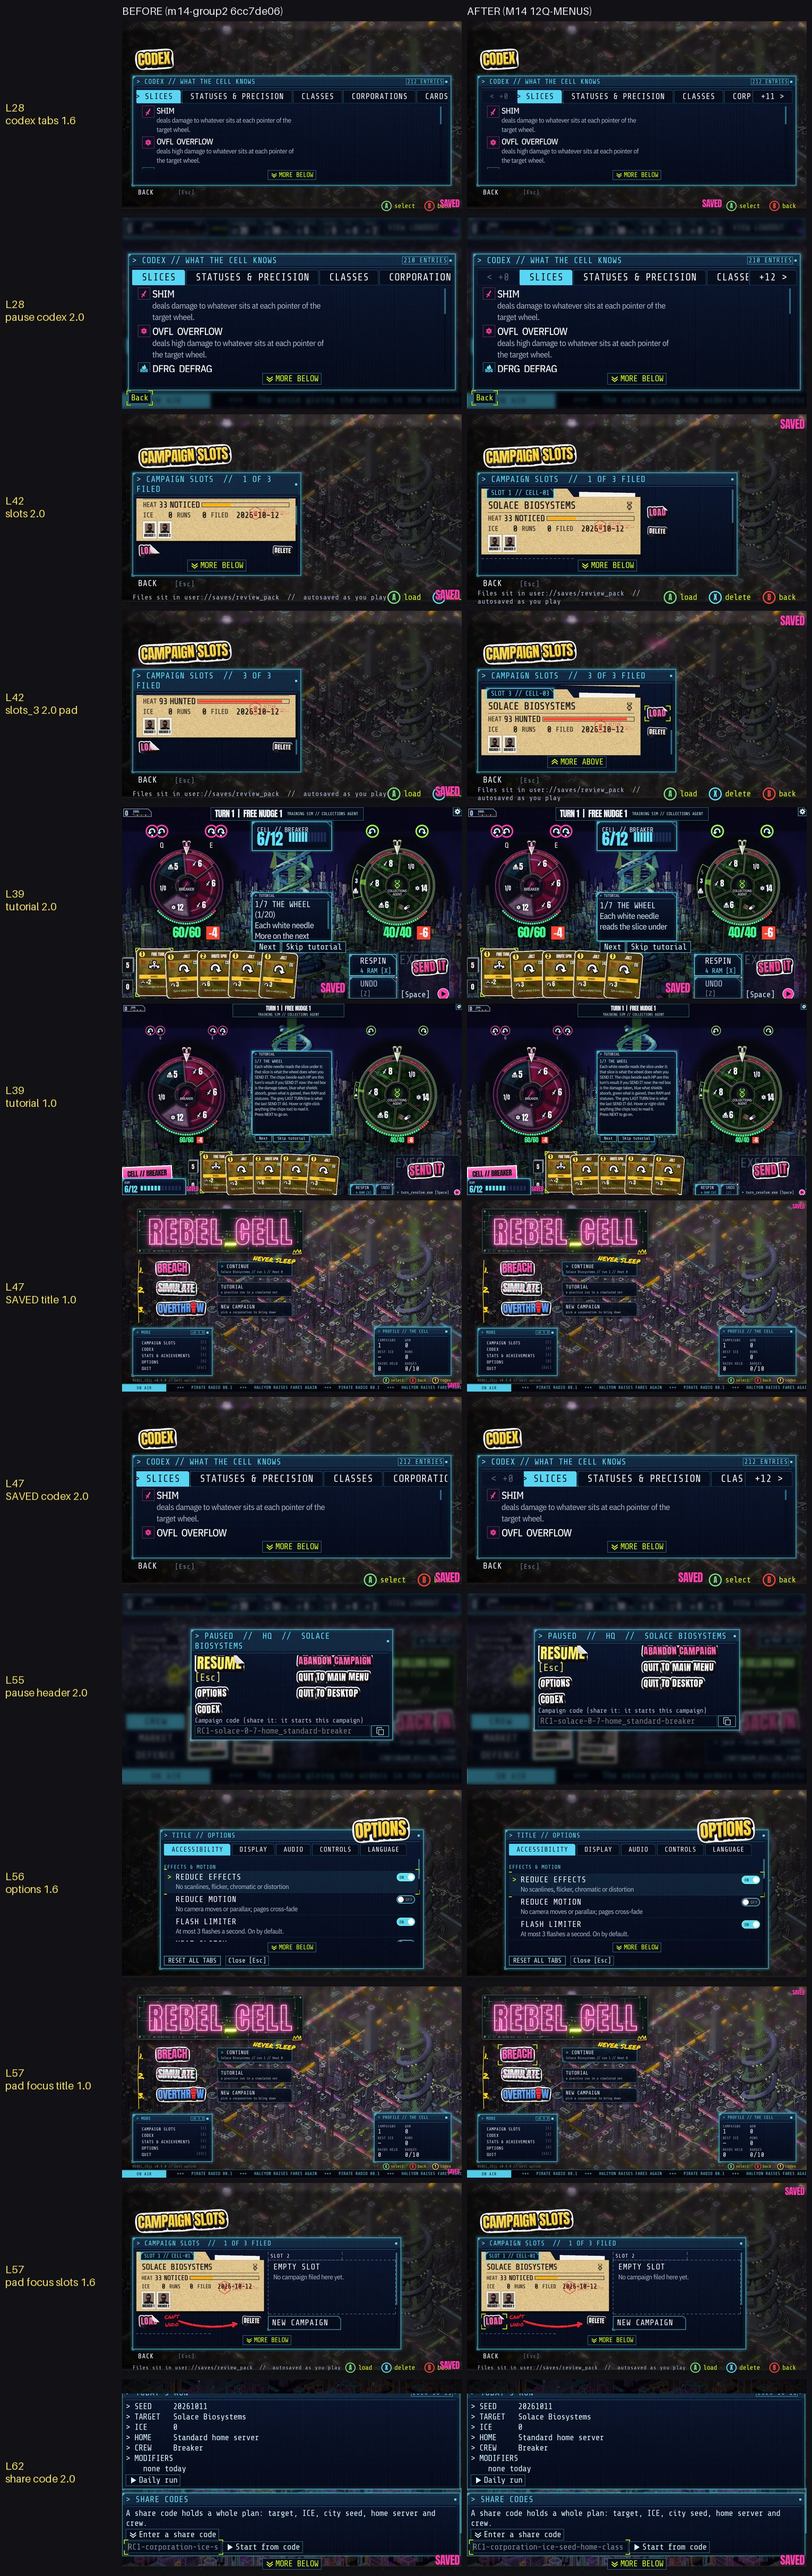
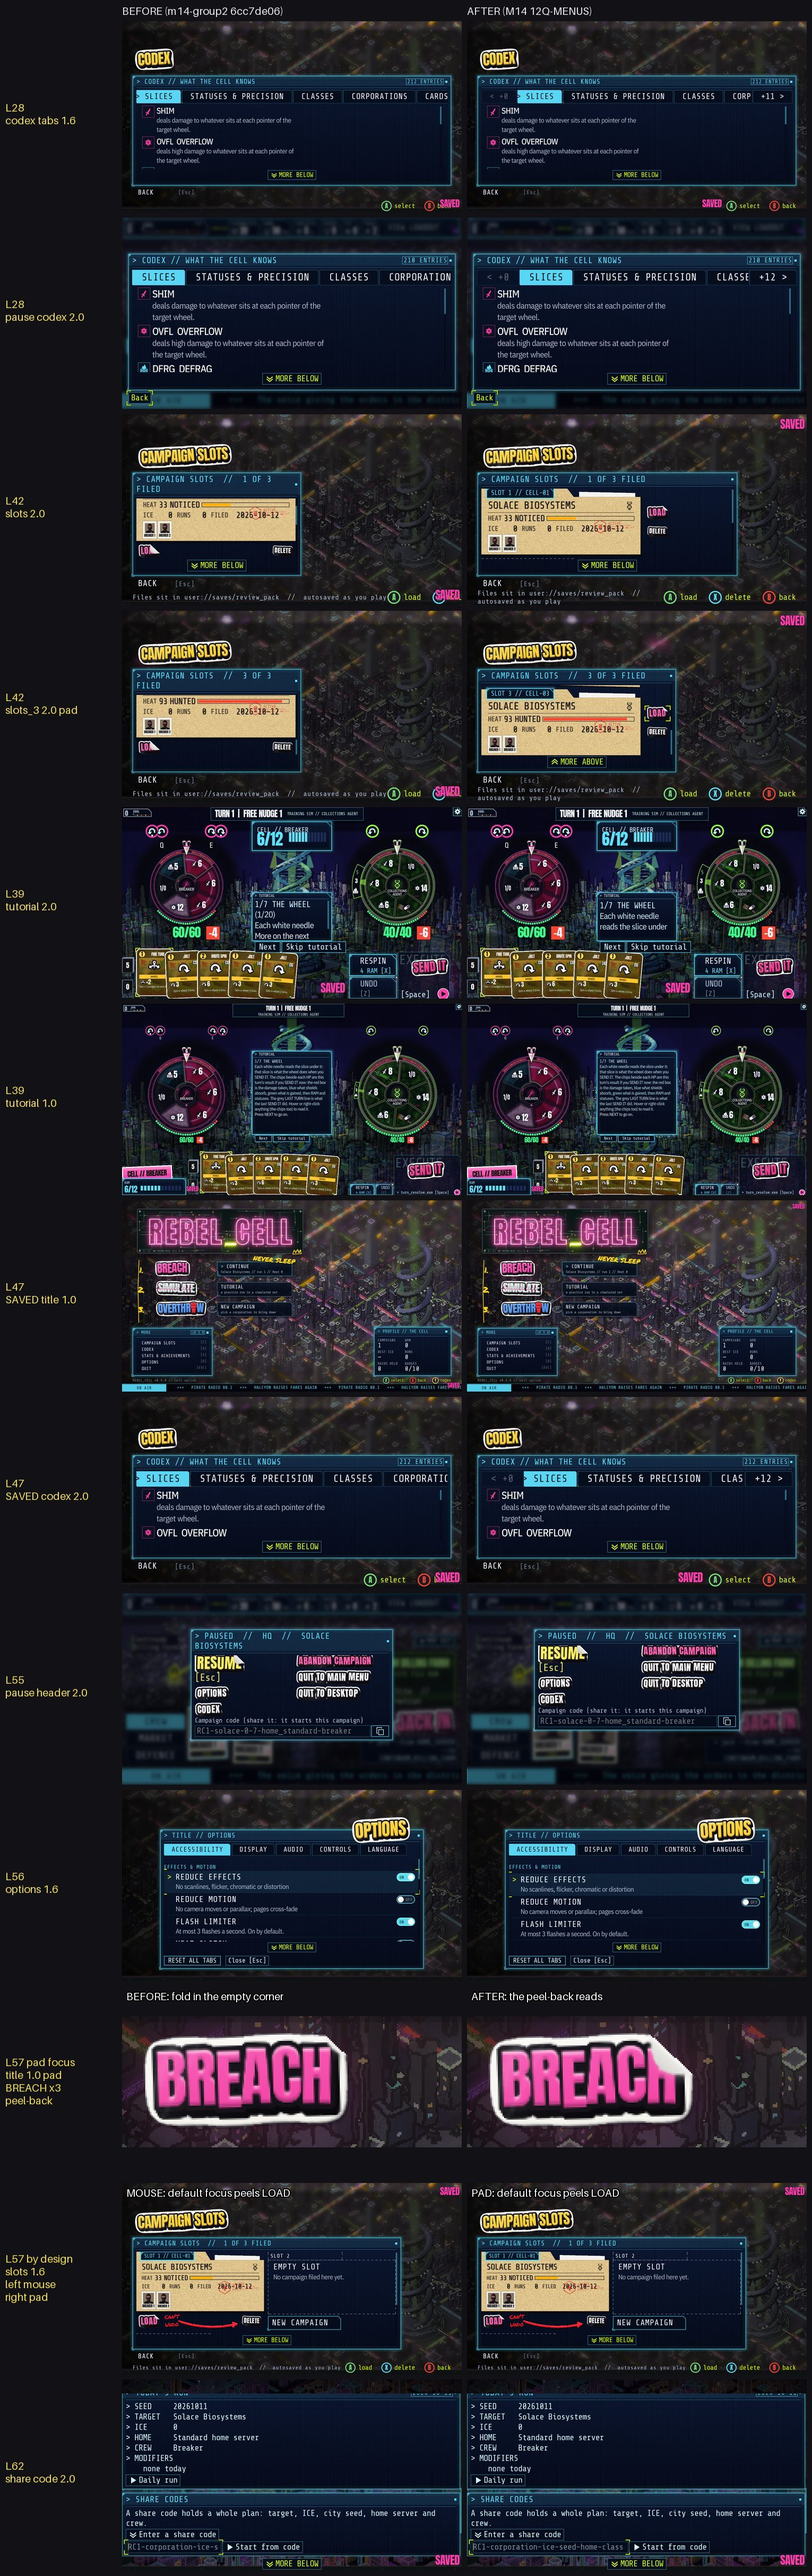
M14 12Q-MENUS screens: L57 per designer ruling 2026-10-06 (3): no sticker focus brackets; the peel-back reads on concept-art stickers (fold from the die-cut's corner)
Removes the pad-only VerbSticker brackets and Settings.pointer_active / device_focus. Pad focus already takes the hover peel; on baked art the fold sat in the empty corner of the opaque rect, now it grows by the die-cut's corner inset. MENUS.jpg L57 rows and DECISIONS updated.

Changed region(s): [[0.1536, 0.7472, 1.0, 0.8718], [0.0, 0.8718, 0.0614, 0.9029], [0.0, 0.7784, 0.0307, 0.8095]]

diff --git a/docs/DECISIONS.md b/docs/DECISIONS.md
@@ -37,7 +37,7 @@ search every ruling with `grep -rn "<topic>" docs/DECISIONS.md docs/decisions/`.
 Finished months live in `docs/decisions/` (moved verbatim by `tools/archive_decisions.py`; grep both places):
 - Archive 2026-09: `docs/decisions/2026-09.md`
 
-### 2026-10-11 — M14 12Q-MENUS: the menu screens' QA-matrix layout defects (codex tabs, slots, tutorial, SAVED, pause, options, pad focus, share code)
+### 2026-10-11 — M14 12Q-MENUS: the menu screens' QA-matrix layout defects (codex tabs, slots, tutorial, SAVED, pause, options, share code, the pad focus peel on concept-art stickers)
 From the 12q QA matrix (`docs/handoff/m14_12q/qa_matrix_audit.md`), re-checked on m14-group2 6cc7de06; text is
 never smaller than at 1.0 and nothing is clipped or scaled (`test_m14_12q_menus`, layout at 1.0 / 1.6 / 2.0;
 before | after `docs/art_review/ART-12/12q/fixes/MENUS.jpg`).
@@ -70,11 +70,15 @@ before | after `docs/art_review/ART-12/12q/fixes/MENUS.jpg`).
   the RE-off truncation in the matrix is the pencil still writing on at the harness's settle (an animation, not a
   clip); at 2.0 they drop knowingly when the columns leave no room (designer 2026-10-05).
 - **L56 options (P3).** A section heading keeps the focus brackets' reach (offset + stroke) under its words.
-- **L57 pad focus (P3).** A VerbSticker holding a pad / keyboard focus draws the kit's lime corner brackets round
-  its die-cut (as B2 b's cards); a mouse player's focus draws none. `Settings.pointer_active` (session only, set
-  by a click or a pointer move of 2 px and more, cleared by a key or pad press) with `Settings.device_focus()`.
-  Rule note for the art director: the sticker's own focus look (sheen and curl) is unchanged; the brackets are
-  additive and only under pad / keys.
+- **L57 pad focus (P3).** Designer ruling 2026-10-06 (3): focus and hover on a sticker show the peel-back
+  (corner curl) only, never brackets (a first take with pad-only lime brackets was withdrawn before merge). The
+  pad / keyboard focus already takes the hover state (VerbSticker NOTIFICATION_FOCUS_ENTER -> VinylSticker
+  HOVER), and the matrix's pad and mouse frames of title / slots match by design: both open with the page's
+  default focus on BREACH / LOAD. But on a concept-art sticker (BREACH, SIMULATE, OVERTHROW, the dialogs'
+  stickers) the fold was measured from the image's opaque rect, whose corner lies outside the rounded die-cut,
+  so the peel cut mostly empty corner and barely showed: the pad's focus read as none. The fold's leg now grows
+  by the die-cut's corner inset (`VinylSticker.fold_inset`, walked once per image), so the flap shows as on a
+  drawn sticker (LOAD). `test_l57_*`; MENUS.jpg L57 rows (BREACH x3 before | after; slots 1.6 mouse | pad).
 - **L62 share code (P3).** The share-code field is as wide as its whole placeholder at the text size (at least
   360 px, never past its row; the row wraps Start from code under it).
 
